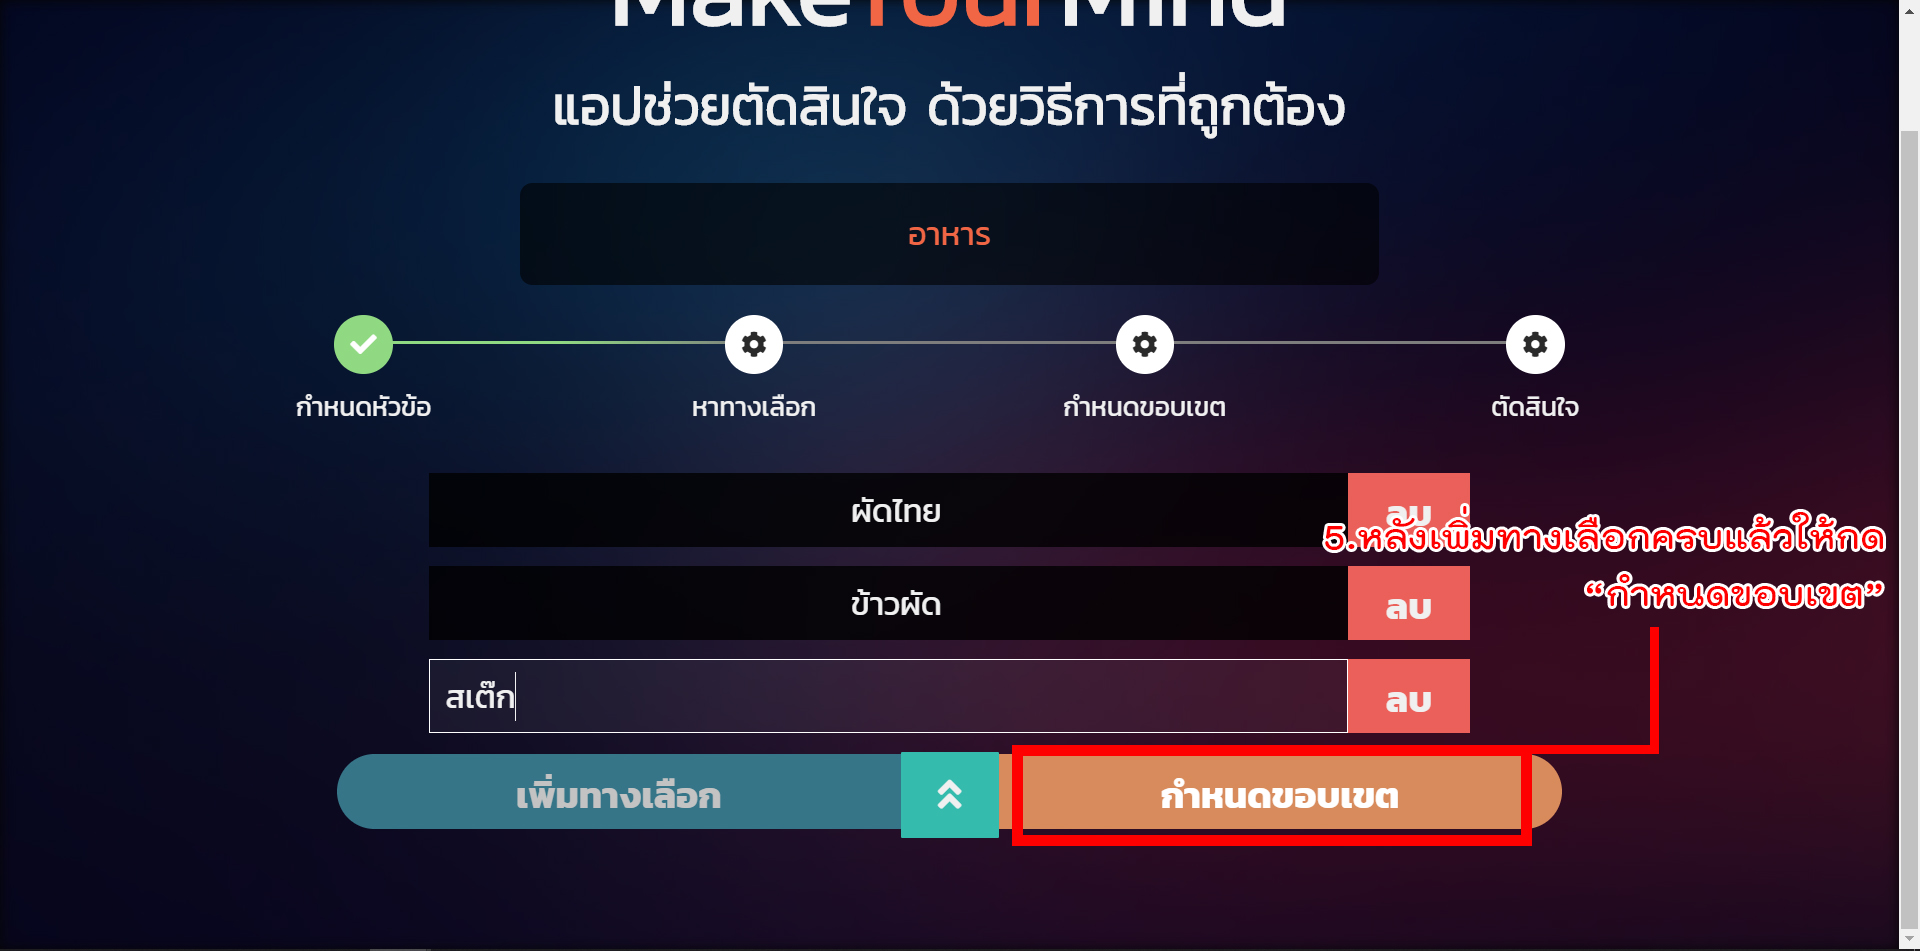
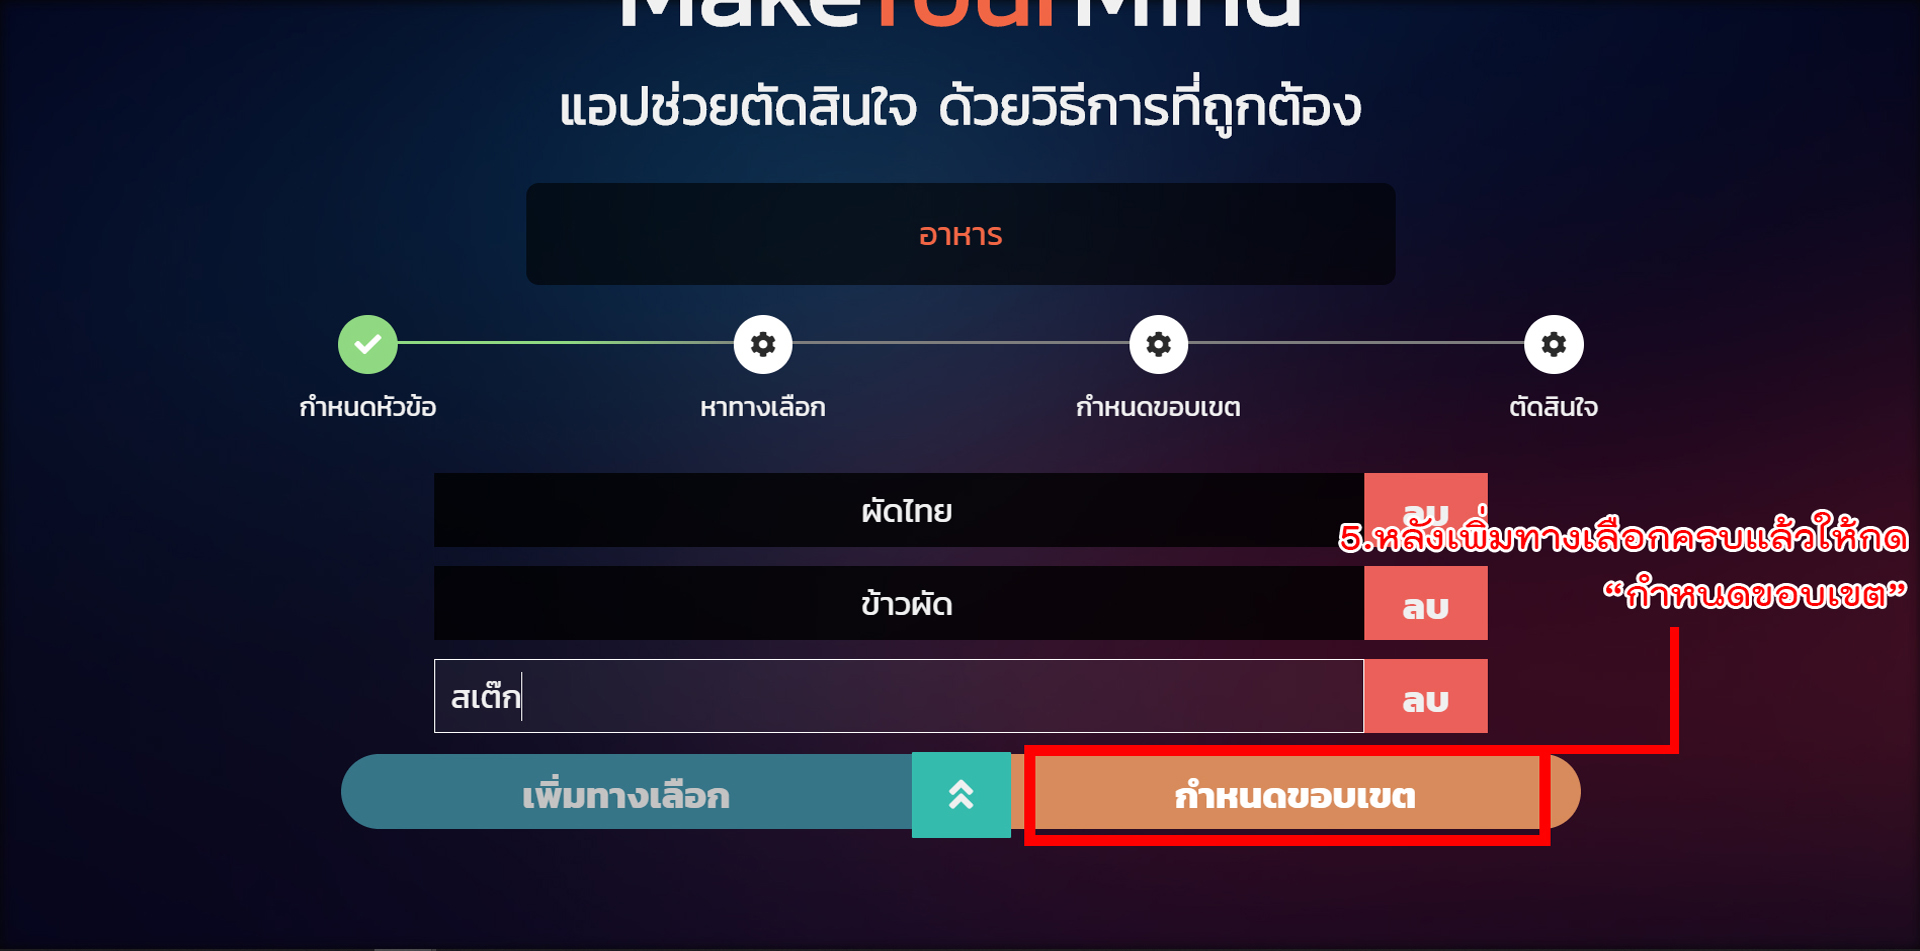
change slide pos
- fixed slide position at vertical middle
- change image for a bit

diff --git a/index.html b/index.html
@@ -23,7 +23,7 @@
       </style>
       <script type="text/javascript"></script>
       <script type="text/javascript">
-        //เรีกยก modal ออกมาแสดง	
+        //เรีกยก modal ออกมาแสดง
         var show = function(){
             $('#myModal').modal('show');
         };
@@ -85,7 +85,7 @@
             <li data-target="#carousel-example-generic" data-slide-to="5"></li>
           </ol>
         </div>
-        
+
         <!-- Controls -->
         <a class="left carousel-control" href="#carousel-example-generic" role="button" data-slide="prev">
           <span class="glyphicon glyphicon-chevron-left" aria-hidden="true"></span>

diff --git a/style/style.css b/style/style.css
@@ -42,6 +42,15 @@
   color: #B3B3B3;
 }
 
+/* slide-show */
+.modal-lg{
+  position: absolute;
+  top: 50%;
+  left: 50%;
+  transform: translate(-50%, -50%) !important;
+  margin: 0 !important;
+}
+
 /*sweetalert*/
 .btn-danger{
   color: #F0F0F0;
@@ -188,7 +197,6 @@ button{
   background-attachment: fixed;
   background-repeat: no-repeat;
   background-size: cover;
-  filter: blur(5px);
   z-index: -999;
 }
 
